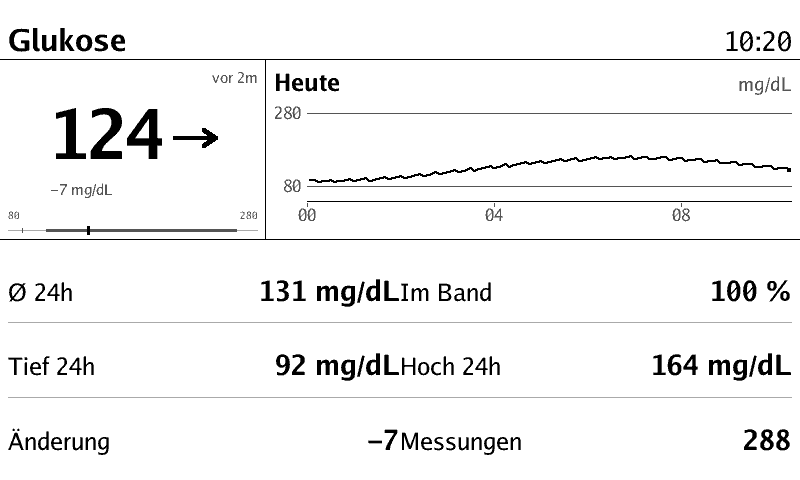
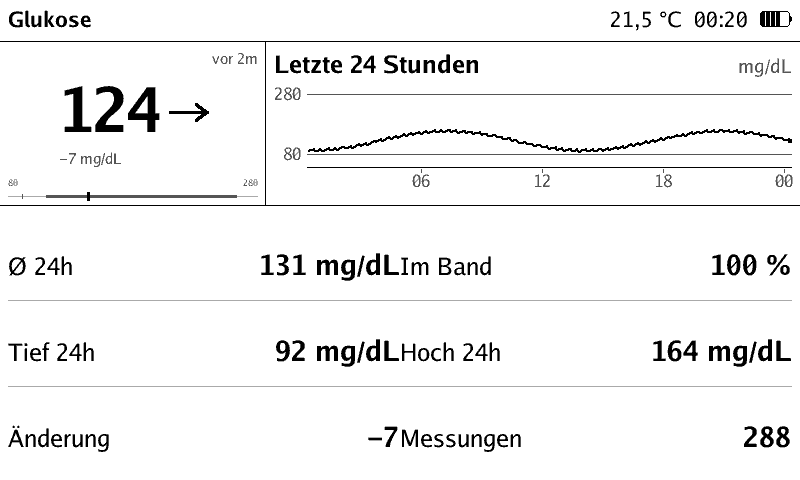
Show the last 24 hours in the dexcom graph [#462]
The default graph cut its window at midnight, so the chart was almost empty after 00:00 although the plugin keeps 24 hours. The window now rolls with the clock and keeps the key period: day, so existing pages need no change. The title and the value labels say last 24 hours. The hour marks sit at 00, 06, 12 and 18 of the window. The period: hour variant stays as it is.

Closes #462

diff --git a/plugins/cmd/dexcom/widgets.go b/plugins/cmd/dexcom/widgets.go
@@ -145,9 +145,35 @@ func (d *dexcom) signed(req *plugin.Request, l limits, v float64) string {
 
 // ---- graph ----
 
-// graphWidget draws the readings of the day or of the last hour. The area the
-// curve spends outside the band is filled, so the chart shows how far and how
-// long a reading was off, not just where the limits are.
+// graphWindow is the span a graph period covers. The default rolls with the
+// clock, so the chart still has data just after midnight (ADR 0169).
+func graphWindow(req *plugin.Request, rs []reading, period string) (start, end time.Time, title string) {
+	end = req.Now
+	start = end.Add(-24 * time.Hour)
+	title = req.T("Letzte 24 Stunden", "Last 24 hours")
+	if period == "hour" {
+		if last, ok := current(rs, req.Now); ok {
+			end = last.at
+		}
+		start = end.Add(-time.Hour)
+		title = req.T("Letzte Stunde", "Last hour")
+	}
+	return start, end, title
+}
+
+// firstHour is the first full hour at or after t in loc.
+func firstHour(t time.Time, loc *time.Location) time.Time {
+	t = t.In(loc)
+	hour := time.Date(t.Year(), t.Month(), t.Day(), t.Hour(), 0, 0, 0, loc)
+	if hour.Before(t) {
+		hour = hour.Add(time.Hour)
+	}
+	return hour
+}
+
+// graphWidget draws the readings of the last 24 hours or of the last hour. The
+// area the curve spends outside the band is filled, so the chart shows how far
+// and how long a reading was off, not just where the limits are.
 func (d *dexcom) graphWidget(req *plugin.Request, w plugin.WidgetRequest, img *image.Paletted) error {
 	l, err := d.limits()
 	if err != nil {
@@ -163,19 +189,7 @@ func (d *dexcom) graphWidget(req *plugin.Request, w plugin.WidgetRequest, img *i
 	}
 	period := w.Arg().String("period", "day")
 	header := w.Arg().Bool("header", true)
-	now := req.Now
-	end := now
-	start := time.Date(now.Year(), now.Month(), now.Day(), 0, 0, 0, 0, req.Location())
-	title := req.T("Heute", "Today")
-	step := 4
-	if period == "hour" {
-		if last, ok := current(rs, now); ok {
-			end = last.at
-		}
-		start = end.Add(-time.Hour)
-		title = req.T("Letzte Stunde", "Last hour")
-		step = 0
-	}
+	start, end, title := graphWindow(req, rs, period)
 	span := end.Sub(start)
 	if span <= 0 {
 		return nil
@@ -264,14 +278,18 @@ func (d *dexcom) graphWidget(req *plugin.Request, w plugin.WidgetRequest, img *i
 
 	// hour marks
 	if period == "day" {
-		for hour := 0; hour <= 24; hour += step {
-			t := start.Add(time.Duration(hour) * time.Hour)
-			if t.After(end) {
-				break
+		// The window rolls with the clock, so the marks sit on the clock and
+		// not at offsets from midnight.
+		for t := firstHour(start, req.Location()); t.Before(end); t = t.Add(time.Hour) {
+			if t.Hour()%6 != 0 {
+				continue
 			}
 			x := xAt(t)
 			fill(img, image.Rect(x, plot.Max.Y+2, x+1, plot.Max.Y+6), mid)
-			render.TextAt(img, fmt.Sprintf("%02d", hour), x, plot.Max.Y+int(labelSize)+4, labelSize, false, mid, render.Center)
+			label := t.Format("15")
+			half := render.Measure(label, labelSize, false) / 2
+			labelX := min(max(x, plot.Min.X+half), plot.Max.X-half)
+			render.TextAt(img, label, labelX, plot.Max.Y+int(labelSize)+4, labelSize, false, mid, render.Center)
 		}
 	} else {
 		// the five-minute points, so the resolution of the sensor shows
@@ -530,7 +548,7 @@ func trendDirection(trend string) (int, bool) {
 }
 
 // Values answers the declared values of a text page from the readings of the
-// day (ADR 0111). A value without data becomes a dash.
+// last 24 hours (ADR 0111). A value without data becomes a dash.
 func (d *dexcom) Values(req *plugin.Request) (map[string]plugin.Value, error) {
 	l, err := d.limits()
 	if err != nil {

diff --git a/plugins/cmd/dexcom/main.go b/plugins/cmd/dexcom/main.go
@@ -4,7 +4,8 @@
 // pydexcom use; the sensor itself speaks a proprietary protocol and is not
 // read directly.
 //
-// The service keeps one day of values, so the widgets cover a day and an hour.
+// The service keeps 24 hours of values, so the widgets cover the last 24 hours
+// and the last hour.
 //
 //	plugins:
 //	  dexcom:
@@ -137,11 +138,11 @@ func (d *dexcom) Describe() plugin.Description {
 			{Name: "trend", Title: "Trend", Type: plugin.ValueDirection},
 			{Name: "delta", Title: "Change in 15 min", Type: plugin.ValueNumber, Unit: l.unit, Precision: l.decimals},
 			{Name: "age", Title: "Age of the reading", Type: plugin.ValueDuration},
-			{Name: "avg", Title: "Average of the day", Type: plugin.ValueNumber, Unit: l.unit, Precision: l.decimals},
-			{Name: "min", Title: "Lowest of the day", Type: plugin.ValueNumber, Unit: l.unit, Precision: l.decimals},
-			{Name: "max", Title: "Highest of the day", Type: plugin.ValueNumber, Unit: l.unit, Precision: l.decimals},
+			{Name: "avg", Title: "Average of the last 24 hours", Type: plugin.ValueNumber, Unit: l.unit, Precision: l.decimals},
+			{Name: "min", Title: "Lowest of the last 24 hours", Type: plugin.ValueNumber, Unit: l.unit, Precision: l.decimals},
+			{Name: "max", Title: "Highest of the last 24 hours", Type: plugin.ValueNumber, Unit: l.unit, Precision: l.decimals},
 			{Name: "in-band", Title: "Share in the target band", Type: plugin.ValueNumber, Unit: "%", Precision: 0},
-			{Name: "count", Title: "Readings of the day", Type: plugin.ValueNumber},
+			{Name: "count", Title: "Readings of the last 24 hours", Type: plugin.ValueNumber},
 			{Name: "band", Title: "Target band", Type: plugin.ValueText},
 		},
 		Widgets: []plugin.WidgetInfo{
@@ -157,7 +158,7 @@ func (d *dexcom) Describe() plugin.Description {
 				MinWidth: 200, MinHeight: 120,
 				Args: map[string]plugin.Arg{
 					"period": {Type: "string", Default: "day", Enum: []any{"day", "hour"},
-						EnumLabels:  map[string]string{"day": "Today", "hour": "Last hour"},
+						EnumLabels:  map[string]string{"day": "Last 24 hours", "hour": "Last hour"},
 						Description: "which part of the history the chart shows"},
 					"header": {Type: "bool", Default: true,
 						Description: "show the title and the unit above the chart"},

diff --git a/plugins/cmd/dexcom/main_test.go b/plugins/cmd/dexcom/main_test.go
@@ -401,6 +401,30 @@ func TestGraphInAShortCell(t *testing.T) {
 	}
 }
 
+// The default graph covers the last 24 hours instead of the calendar day, so
+// the chart still has data just after midnight.
+func TestGraphWindowRolls(t *testing.T) {
+	now := time.Date(2026, 11, 13, 0, 5, 0, 0, time.UTC)
+	req := &plugin.Request{Now: now, Language: "de"}
+	rs := []reading{{at: now.Add(-10 * time.Minute), value: 120}}
+
+	start, end, title := graphWindow(req, rs, "day")
+	if !end.Equal(now) || end.Sub(start) != 24*time.Hour {
+		t.Errorf("day window is %v to %v, want the last 24 hours", start, end)
+	}
+	if title != "Letzte 24 Stunden" {
+		t.Errorf("day title = %q", title)
+	}
+
+	start, end, title = graphWindow(req, rs, "hour")
+	if !end.Equal(rs[0].at) || end.Sub(start) != time.Hour {
+		t.Errorf("hour window is %v to %v, want the last hour from the newest reading", start, end)
+	}
+	if title != "Letzte Stunde" {
+		t.Errorf("hour title = %q", title)
+	}
+}
+
 // The trend of the values widget is drawn as the arrow of the glucose widget.
 func TestValuesTrendArrow(t *testing.T) {
 	now := time.Date(2026, 11, 13, 20, 0, 0, 0, time.UTC)

diff --git a/plugins/cmd/dexcom/draw.go b/plugins/cmd/dexcom/draw.go
@@ -125,7 +125,7 @@ func absDuration(d time.Duration) time.Duration {
 	return d
 }
 
-// stats covers the readings of the last day.
+// stats covers the readings of the last 24 hours.
 type stats struct {
 	min, max, avg, inBand float64
 	count                 int

diff --git a/docs/plugins/dexcom.md b/docs/plugins/dexcom.md
@@ -6,8 +6,8 @@ Share has to be switched on in the app (Connections → Share). Nothing reaches 
 
 ## Screenshots
 
-The example page `glukose` shows the current reading, the day graph and the
-numbers of the day:
+The example page `glukose` shows the current reading, the 24-hour graph and the
+numbers of the last 24 hours:
 
 ![The glucose page](../images/plugins/dexcom/page-glukose.png)
 
@@ -64,11 +64,11 @@ The arrow beside the value is the trend the sensor reports with every reading: t
 
 ## Widget `graph`
 
-The readings of the day (`period: day`, the default) or of the last hour (`period: hour`). The band is two labelled lines, and the area the curve spends outside the band is filled, so a spike above `high` or a dip below `low` shows how far it went and how long it lasted. The hour variant marks the five-minute points.
+The readings of the last 24 hours (`period: day`, the default) or of the last hour (`period: hour`). The 24-hour window rolls with the clock, so the chart still shows data just after midnight ([ADR 0169](../adr/0169-the-glucose-chart-covers-the-last-24-hours.md)). The band is two labelled lines, and the area the curve spends outside the band is filled, so a spike above `high` or a dip below `low` shows how far it went and how long it lasted. The hour variant marks the five-minute points.
 
-`header: false` drops the title (`Heute`/`Letzte Stunde`) and the unit, so the chart itself gets the room. The title and the scale labels follow the base text of the page but never take more than a share of the cell, so the chart still draws in a short cell such as a Sticky's `span: [6,3]` (800 × 180 px).
+`header: false` drops the title (`Letzte 24 Stunden`/`Letzte Stunde`) and the unit, so the chart itself gets the room. The title and the scale labels follow the base text of the page but never take more than a share of the cell, so the chart still draws in a short cell such as a Sticky's `span: [6,3]` (800 × 180 px).
 
-`mark` (`none`, `min`, `max`, `both`) labels the lowest and the highest reading of the shown window; default `none`. The label is the reading in the configured unit, so a day that turns at 210 says `210`.
+`mark` (`none`, `min`, `max`, `both`) labels the lowest and the highest reading of the shown window; default `none`. The label is the reading in the configured unit, so a window that peaks at 210 says `210`.
 
 Image displays only.
 
@@ -79,12 +79,12 @@ Single values as rows, like the `values` widget of the evcc plugin. The list arg
 | Key | Shows |
 |---|---|
 | `now` | The newest reading with its unit |
-| `avg`, `in-band` | Average and share inside the band over the last day |
-| `min`, `max` | The lowest and highest reading of the last day |
+| `avg`, `in-band` | Average and share inside the band over the last 24 hours |
+| `min`, `max` | The lowest and highest reading of the last 24 hours |
 | `delta` | The change over the last 15 minutes |
 | `trend` | The trend: the same arrow the `glucose` widget draws |
 | `age` | How old the newest reading is |
-| `count` | How many readings the day has |
+| `count` | How many readings the last 24 hours have |
 | `band` | The configured target band |
 
 Without `values` all entries are shown; `columns` sets one or two columns. Rows that do not fit the cell are left out, so the order of the list is the order of importance. The widget is for image displays; the values below carry the same data to a text page.
@@ -100,10 +100,10 @@ A text page reads these values ([ADR 0111](../adr/0111-text-pages-from-plugin-va
 | `trend` | direction | | | 1 up, 0 flat, -1 down, doubled for the double arrows |
 | `delta` | number | mg/dL or mmol/L | 0 or 1 | change over the last 15 minutes |
 | `age` | duration | | | age of the newest reading |
-| `avg` | number | mg/dL or mmol/L | 0 or 1 | average of the day |
-| `min`, `max` | number | mg/dL or mmol/L | 0 or 1 | lowest and highest of the day |
-| `in-band` | number | % | 0 | share of the day inside the band |
-| `count` | number | | 0 | readings of the day |
+| `avg` | number | mg/dL or mmol/L | 0 or 1 | average of the last 24 hours |
+| `min`, `max` | number | mg/dL or mmol/L | 0 or 1 | lowest and highest of the last 24 hours |
+| `in-band` | number | % | 0 | share of the last 24 hours inside the band |
+| `count` | number | | 0 | readings of the last 24 hours |
 | `band` | text | | | the target band, e.g. `80–280 mg/dL` |
 
 The unit and the precision follow the configuration or the unit the account reports.
@@ -135,11 +135,11 @@ cells:
 
 ## Data and state
 
-The service keeps one day. The first read takes the whole day; after that the plugin asks for the readings it missed since the last poll (`maxCount` = the missed five-minute values plus one for context, at most 288) and merges them into the stored series, dropping duplicates and anything older than 24 hours. A poll therefore moves a handful of values instead of a day.
+The service keeps 24 hours. The first read takes the whole 24 hours; after that the plugin asks for the readings it missed since the last poll (`maxCount` = the missed five-minute values plus one for context, at most 288) and merges them into the stored series, dropping duplicates and anything older than 24 hours. A poll therefore moves a handful of values instead of a whole window.
 
-The plugin state ([ADR 0081](../adr/0081-plugin-state-over-the-protocol.md), [what a plugin keeps](../design/05-plugins.md#what-a-plugin-keeps)) holds the account ID, the session, the time of the last read and the readings of the day, so a restart costs neither a login nor a read, and the first page after a restart has data. A session the service forgot or timed out (`SessionIdNotFound`, `SessionNotValid`) costs one new login; the session is not renewed on every request.
+The plugin state ([ADR 0081](../adr/0081-plugin-state-over-the-protocol.md), [what a plugin keeps](../design/05-plugins.md#what-a-plugin-keeps)) holds the account ID, the session, the time of the last read and the readings of the last 24 hours, so a restart costs neither a login nor a read, and the first page after a restart has data. A session the service forgot or timed out (`SessionIdNotFound`, `SessionNotValid`) costs one new login; the session is not renewed on every request.
 
-There is no week or month view: the service does not answer more than a day, and the plugin does not keep its own history. Nightscout or Juggluco would be the source for that.
+There is no week or month view: the service does not answer more than 24 hours, and the plugin does not keep its own history. Nightscout or Juggluco would be the source for that.
 
 ## Privacy
 

diff --git a/docs/design/05-plugins.md b/docs/design/05-plugins.md
@@ -98,7 +98,7 @@ A plugin keeps state only for what a restart must not lose **and** cannot rebuil
 State must not hold live data. A restored departure view would claim trips that already left. A stateless plugin keeps nothing, because every input is an argument. The state must not hold a secret that the config does not already hold. A value that one cheap request rebuilds belongs in memory, not on disk. A blob is the exception: it holds what a fetch cannot rebuild.
 
 Only [`dexcom`](../plugins/dexcom.md), [`myskoda`](../plugins/myskoda.md) and
-[`fuel`](../plugins/fuel.md) keep state today. `dexcom` keeps the session and the readings of the last day. The login and the readings are quota-limited, and the trend and the graph need the history. `myskoda` keeps the last vehicle fetch, its fetch times and the render blob. The API has a quota, and the render image is not cheap. `fuel` keeps the price history of the cheapest station per fuel. No request rebuilds the past, and the API allows only one request per minute. No other shipped plugin keeps state, because one fetch or a short refresh rebuilds its data. A restart within the refresh interval therefore costs no request.
+[`fuel`](../plugins/fuel.md) keep state today. `dexcom` keeps the session and the readings of the last 24 hours. The login and the readings are quota-limited, and the trend and the graph need the history. `myskoda` keeps the last vehicle fetch, its fetch times and the render blob. The API has a quota, and the render image is not cheap. `fuel` keeps the price history of the cheapest station per fuel. No request rebuilds the past, and the API allows only one request per minute. No other shipped plugin keeps state, because one fetch or a short refresh rebuilds its data. A restart within the refresh interval therefore costs no request.
 
 The readings of Dexcom in `state/` are acceptable: the operator owns the directory and can delete it. Paperboy exposes no age of a restored state, because `max_age` and the `changed` event set the refresh. No shared helper checks the config fingerprint; each plugin compares its own. An e-paper device polls every 5 to 10 minutes, so a restart rarely shows a gap on the page. That argues against broad state use.
 

diff --git a/docs/plugins/README.md b/docs/plugins/README.md
@@ -17,7 +17,7 @@ A Go plugin implements `plugin.Handler` (`Describe`, `Configure`, `Render`). It 
 Paperboy ships the plugins below. One zip per platform (`paperboy-plugins-linux-amd64.zip`, `paperboy-plugins-windows-amd64.zip`) contains all of them. Unpacked in the instance directory, the zip creates `plugins/` with `<plugin>-v<version>`. Each plugin raises its version when it changes, and every plugin does when `sdk/plugin` or `sdk/render` changes ([ADR 0075](../adr/0075-plugin-versions.md), [0107](../adr/0107-plugin-builds-reach-installations.md)); a plugin that imports `sdk/design` or `sdk/format` raises its own version when that package changes. The version is in `plugins/cmd/<plugin>/VERSION`. Every plugin has its own documentation under `docs/plugins/`. Each page shows the example pages and the widgets of its plugin; `./scripts/screenshots.sh` renders the pictures ([Development](../development.md#writing-documentation)):
 
 - [`evcc`](evcc.md) – PV, home, grid, battery, energy flow, loadpoints, forecast, the energy history of the day, week, month and year as a table or a bar chart, and evcc's values and charging statistics from [evcc](https://evcc.io); the first shipped plugin with actions, `evcc/mode` sets a charge mode from the loadpoint widget.
-- [`dexcom`](dexcom.md) – the glucose reading of a Dexcom G7 from the Dexcom Share service: the value with trend and alarms, the day and the last hour as a chart, the numbers of the day as rows, and the `state` value for plan conditions.
+- [`dexcom`](dexcom.md) – the glucose reading of a Dexcom G7 from the Dexcom Share service: the value with trend and alarms, the last 24 hours and the last hour as a chart, the numbers of the last 24 hours as rows, and the `state` value for plan conditions.
 - [`departures`](departures.md) – real-time public transport departures from an EFA installation.
 - [`myskoda`](myskoda.md) – battery, charging plans, parking position and the vehicle image from the [MyŠkoda Public API](https://public.api.connect.skoda-auto.cz/docs).
 - [`weather`](weather.md) – current weather and forecast from [Open-Meteo](https://open-meteo.com/).

diff --git a/docs/adr/0169-the-glucose-chart-covers-the-last-24-hours.md b/docs/adr/0169-the-glucose-chart-covers-the-last-24-hours.md
@@ -1,0 +1,43 @@
+# 0169: The glucose chart covers the last 24 hours
+
+- Status: Accepted, implemented
+- Date: 2026-11-26
+- Amends: the day window of [ADR 0099](0099-glucose-readings-from-the-dexcom-share-service.md)
+- Answers: issue #462
+
+## Context
+
+The `graph` widget of the dexcom plugin showed the calendar day by default:
+from midnight to now. The service keeps 24 hours, the plugin stores them, and
+the `values` rows already summarize the rolling 24 hours. Only the chart cut
+its window at midnight.
+
+Right after midnight the calendar window is almost empty, although the stored
+series still holds the readings of the previous day. The operator sees an
+empty chart every night, and a reading just before midnight disappears from
+the chart even though it is five minutes old.
+
+## Decision
+
+1. **The default window rolls.** `period: day` covers the last 24 hours up to
+   the current time, not the calendar day. The key stays the same, so existing
+   pages need no change.
+2. **The title says what it shows.** The chart title is `Letzte 24 Stunden` /
+   `Last 24 hours`, and the editor labels the `day` choice the same way.
+3. **The hour marks follow the clock.** The marks sit at 00, 06, 12 and 18 of
+   the window, because a rolling window crosses midnight and offsets from its
+   start would no longer name clock hours.
+4. **The hour variant stays.** `period: hour` keeps its last hour from the
+   newest reading, `Letzte Stunde` / `Last hour`, and its five-minute points.
+5. **The values follow the same words.** The value titles and the plugin
+   documentation say `last 24 hours` instead of `the day`. Their behavior does
+   not change: they already used the stored 24 hours.
+
+## Consequences
+
+- The chart has data at every time of day, including just after midnight.
+- The chart no longer matches the calendar day. A comparison with "today"
+  shifts by the time of the day, and a reading before midnight stays visible
+  for the next 24 hours.
+- The stored series and the network traffic do not change.
+- A page that wants the calendar day would need a new period later.

diff --git a/docs/adr/README.md b/docs/adr/README.md
@@ -198,6 +198,7 @@ How plugins are written, hosted and versioned. See [`05-plugins.md`](../design/0
 | [0152](0152-a-tiny-role-for-dense-lists.md) | A tiny role for dense lists | Accepted, implemented; adds `Tiny` at 0.55 of `text_px` to the scale of [ADR-0151](0151-a-shared-design-language-for-plugin-widgets.md) |
 | [0156](0156-mark-the-extrema-in-a-trend-chart.md) | Mark the extrema in a trend chart | Accepted, implemented; adds labelled marks and the extrema helper to the trend of [ADR-0151](0151-a-shared-design-language-for-plugin-widgets.md), the label placement amended by [ADR-0160](0160-a-trend-chart-reads-in-a-short-cell.md) |
 | [0159](0159-show-an-offline-printer-in-the-prusalink-widgets.md) | Show an offline printer in the prusalink widgets | Accepted, implemented; adds the `offline` state key and amends the failure handling of [ADR-0149](0149-a-prusalink-plugin-for-printer-status.md) |
+| [0169](0169-the-glucose-chart-covers-the-last-24-hours.md) | The glucose chart covers the last 24 hours | Accepted, implemented; amends the day window of [ADR-0099](0099-glucose-readings-from-the-dexcom-share-service.md) |
 | [0160](0160-a-trend-chart-reads-in-a-short-cell.md) | A trend chart reads in a short cell | Accepted, implemented; caps the title and axis of the trend of [ADR-0151](0151-a-shared-design-language-for-plugin-widgets.md) by the cell height and amends the mark labels of [ADR-0156](0156-mark-the-extrema-in-a-trend-chart.md) |
 | [0166](0166-a-shared-battery-gauge.md) | A shared battery gauge | Accepted, implemented; adds `DrawBattery` to [ADR-0151](0151-a-shared-design-language-for-plugin-widgets.md) and uses it for the gauge of [ADR-0121](0121-segmented-battery-gauge.md) and the evcc flow |
 
